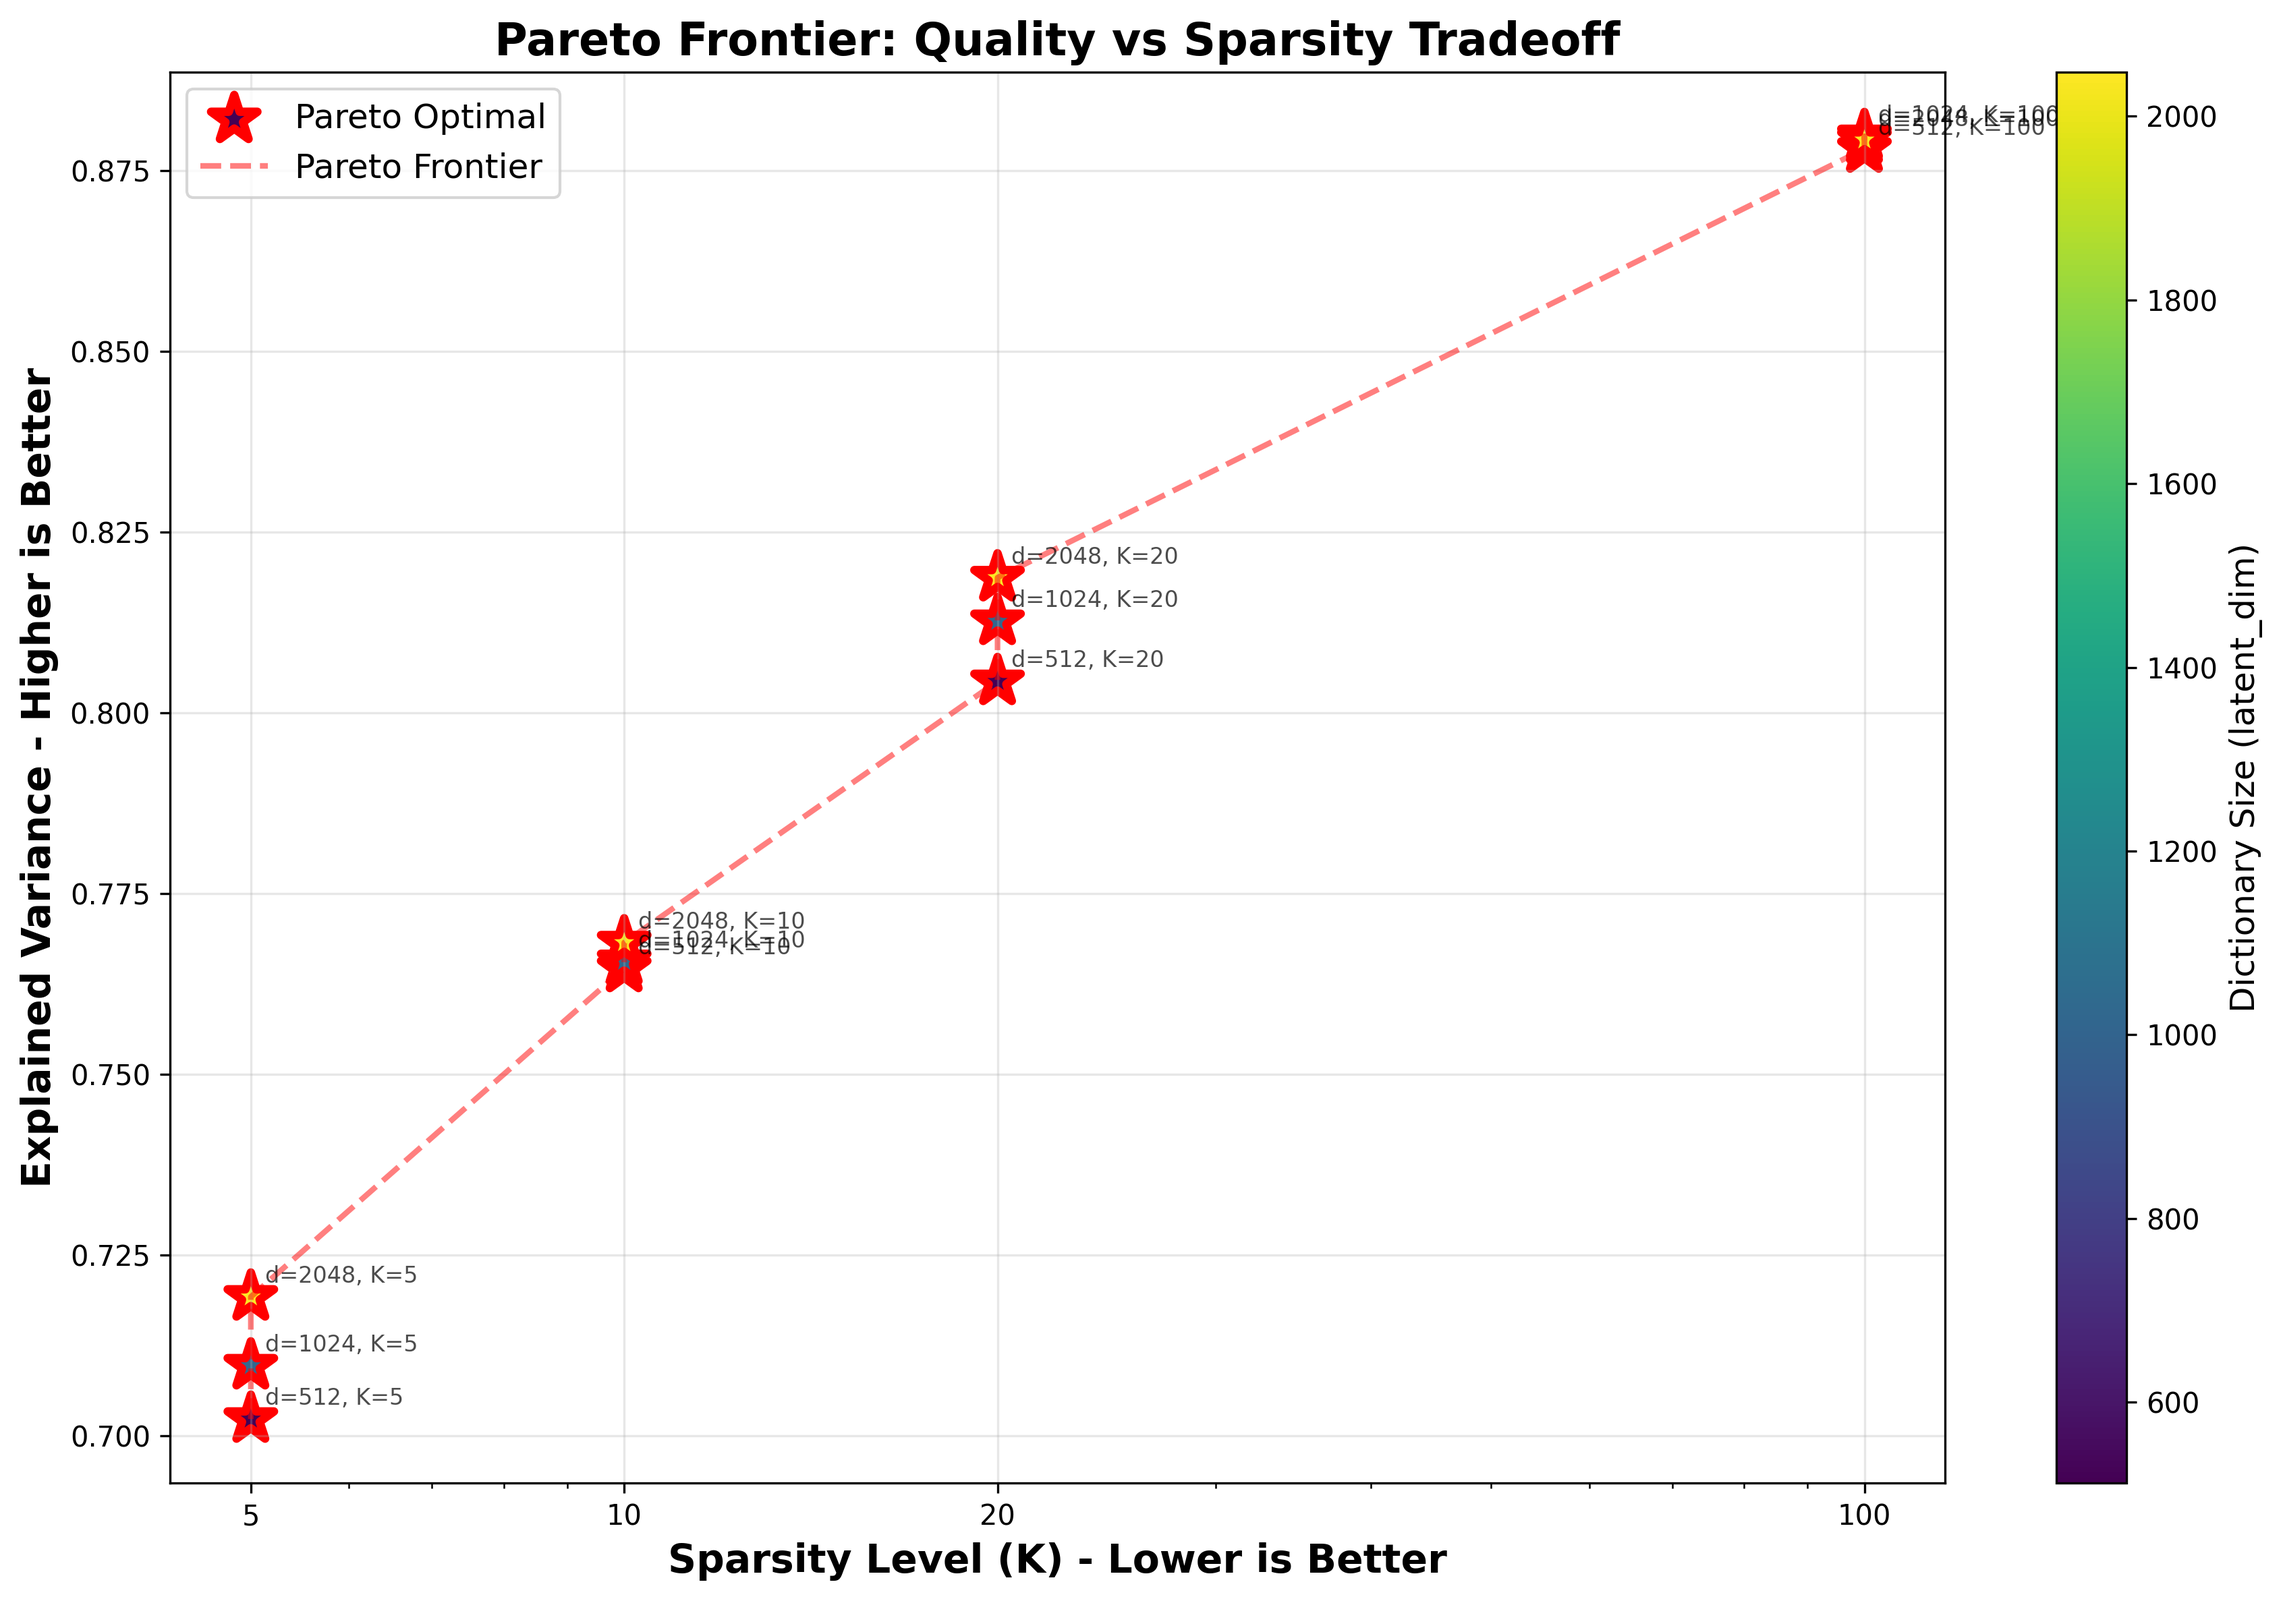
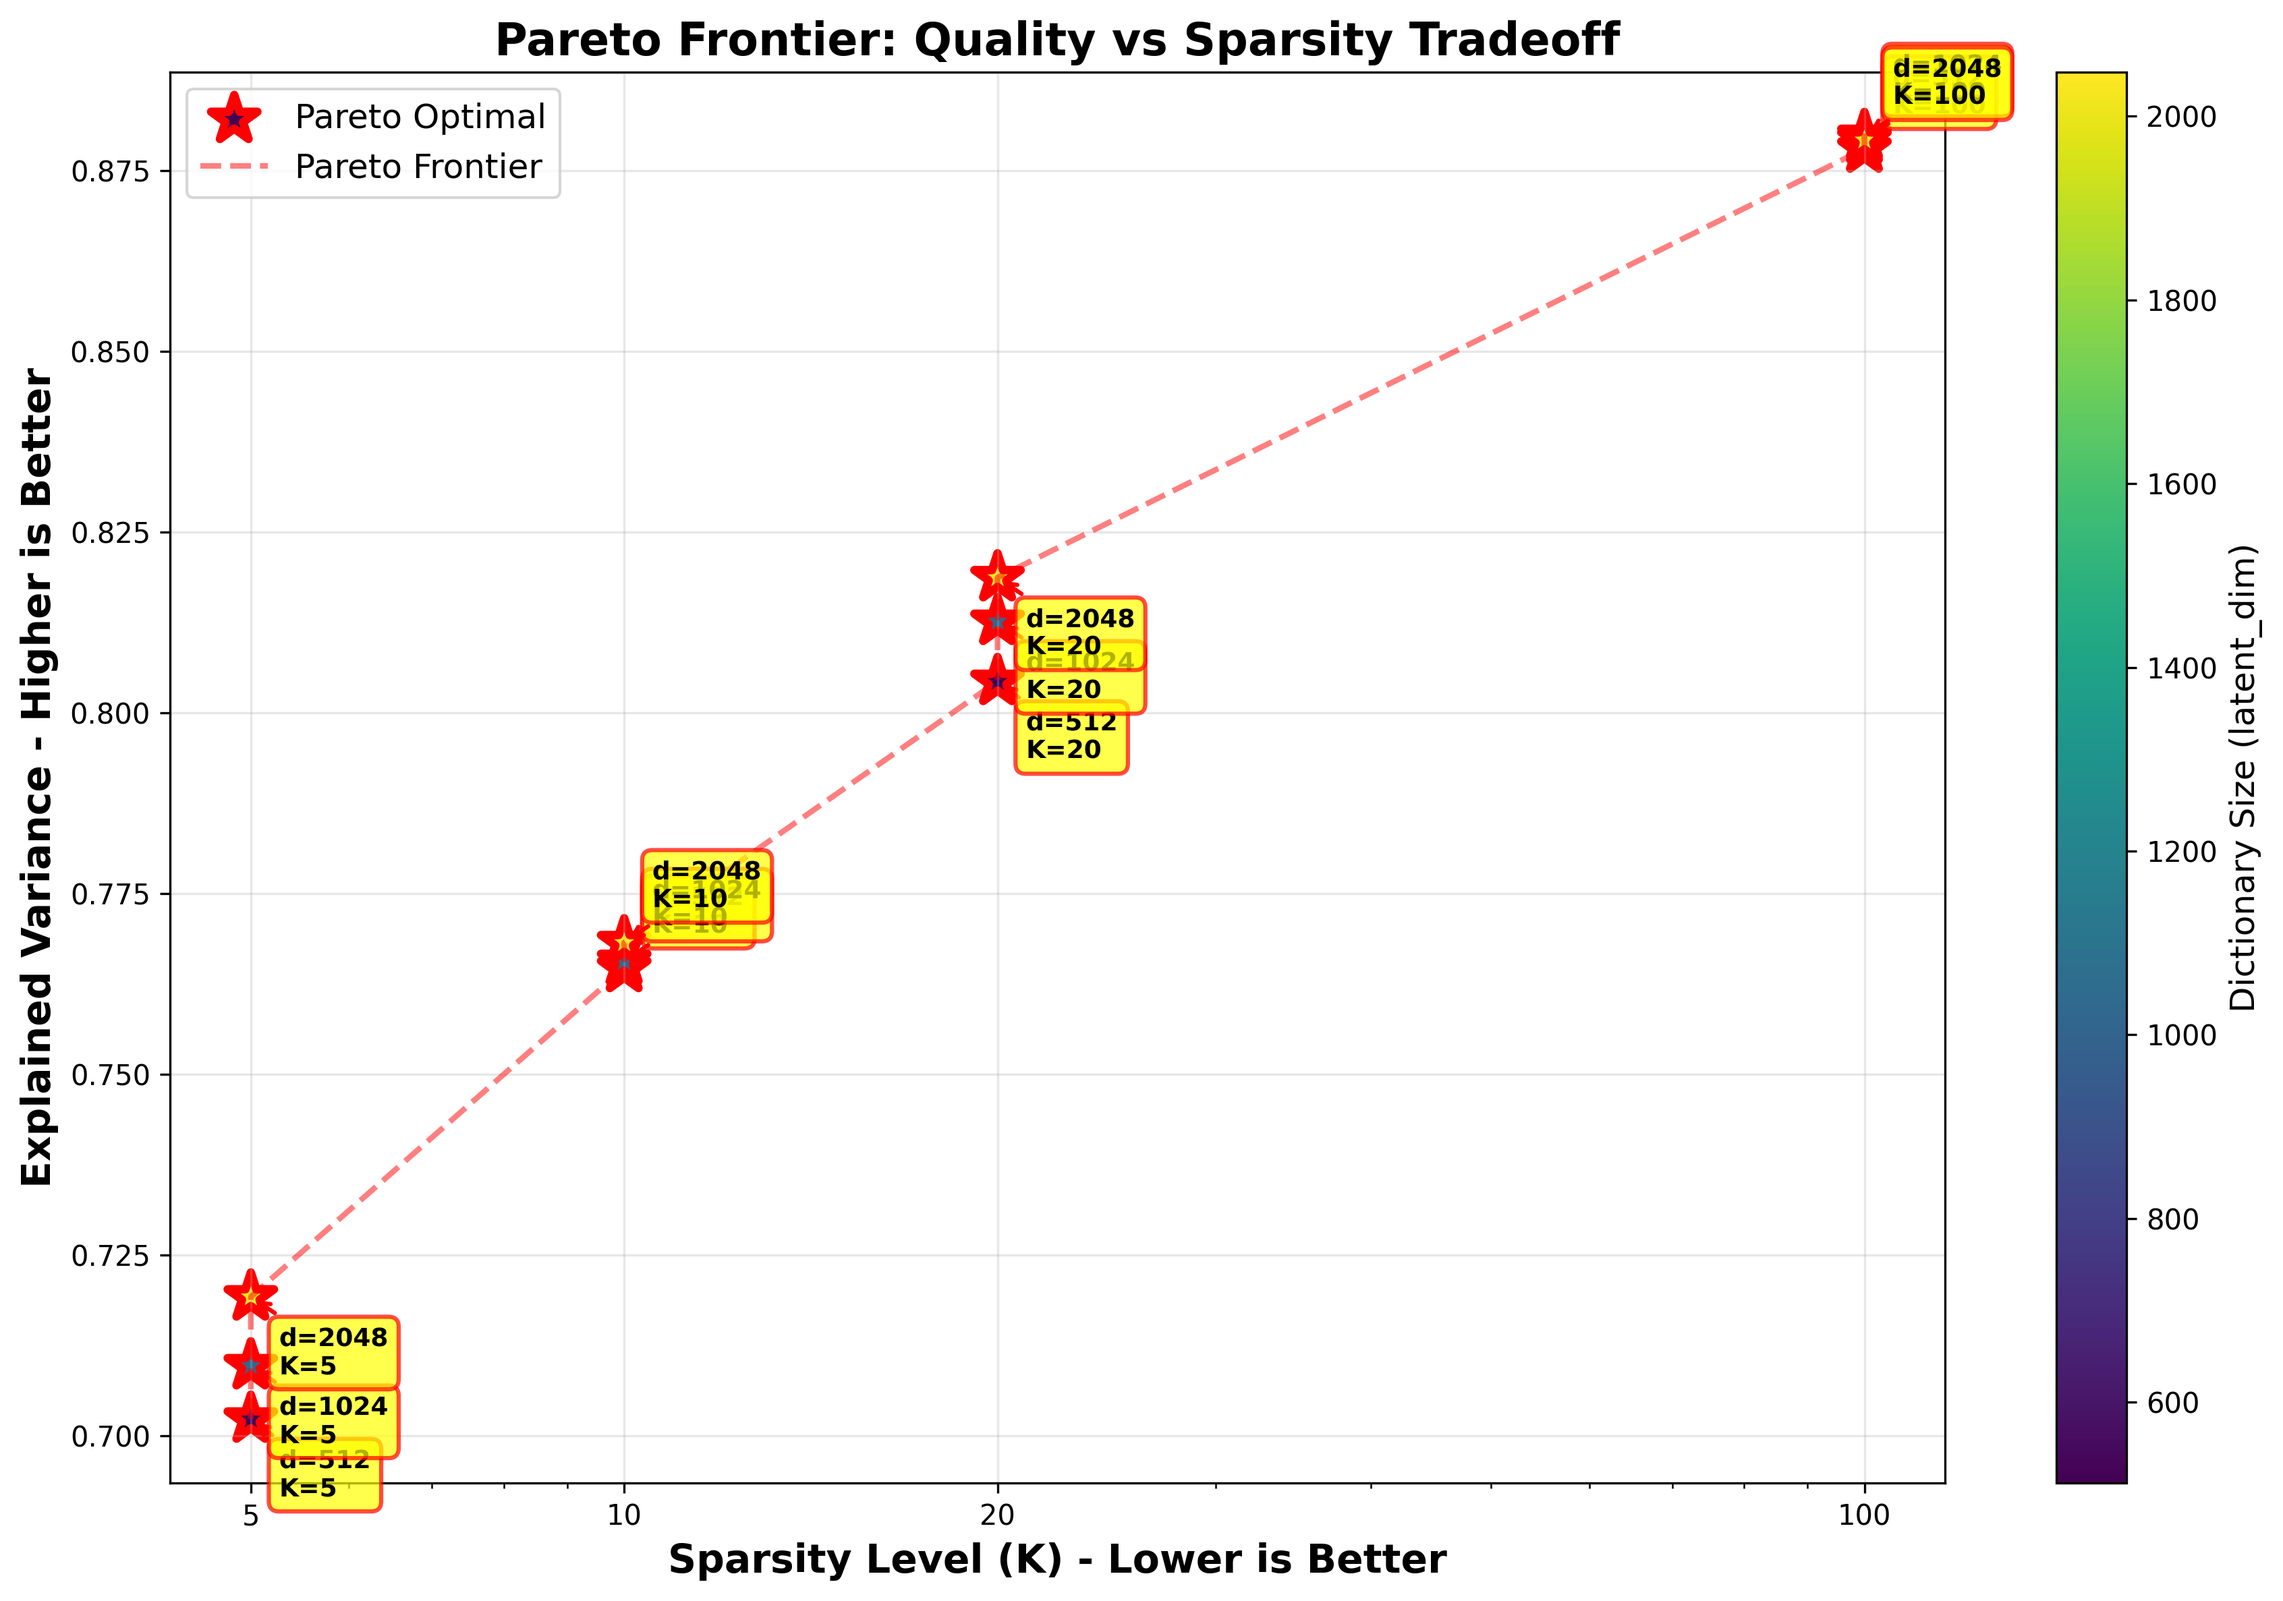
fix: Improve Pareto frontier plot label readability
Fixed overlapping text labels in pareto_frontier.png visualization.

Changes:
- Only label Pareto-optimal points (12 instead of all 24 configs)
- Use alternating above/below positioning to avoid overlaps
- Add yellow boxes with red borders for better visibility
- Add arrows pointing to exact data points
- Use two-line labels (d=X / K=Y) for better readability
- Increase font size to 9pt with bold weight

Result: All 12 Pareto-optimal configurations are now clearly labeled
without any overlapping text, making the quality-sparsity tradeoff
easy to read.

🤖 Generated with [Claude Code](https://claude.com/claude-code)

diff --git a/src/experiments/topk_grid_pilot/pareto_analysis.py b/src/experiments/topk_grid_pilot/pareto_analysis.py
@@ -145,17 +145,30 @@ def plot_pareto_frontier(pareto_configs, dominated_configs, output_path):
         # Draw Pareto frontier line
         ax.plot(k_sorted, ev_sorted, 'r--', linewidth=2, alpha=0.5, label='Pareto Frontier')
 
-    # Add labels for all points
-    all_configs = pareto_configs + dominated_configs
-    for config in all_configs:
-        label = f"d={config['latent_dim']}, K={config['k']}"
+    # Add labels only for Pareto-optimal points with smart positioning
+    # Create offset strategy to avoid overlaps
+    offsets = {
+        5: (10, -20),    # K=5: below
+        10: (10, 20),    # K=10: above
+        20: (10, -20),   # K=20: below
+        100: (10, 20),   # K=100: above
+    }
+
+    for config in pareto_configs:
+        label = f"d={config['latent_dim']}\nK={config['k']}"
+        offset = offsets.get(config['k'], (10, 10))
+
         ax.annotate(
             label,
             (config['k'], config['explained_variance']),
-            xytext=(5, 5),
+            xytext=offset,
             textcoords='offset points',
-            fontsize=8,
-            alpha=0.7
+            fontsize=9,
+            fontweight='bold',
+            bbox=dict(boxstyle='round,pad=0.4', facecolor='yellow', alpha=0.7, edgecolor='red', linewidth=1.5),
+            ha='left',
+            va='center',
+            arrowprops=dict(arrowstyle='->', connectionstyle='arc3,rad=0', color='red', lw=1.5)
         )
 
     # Colorbar
